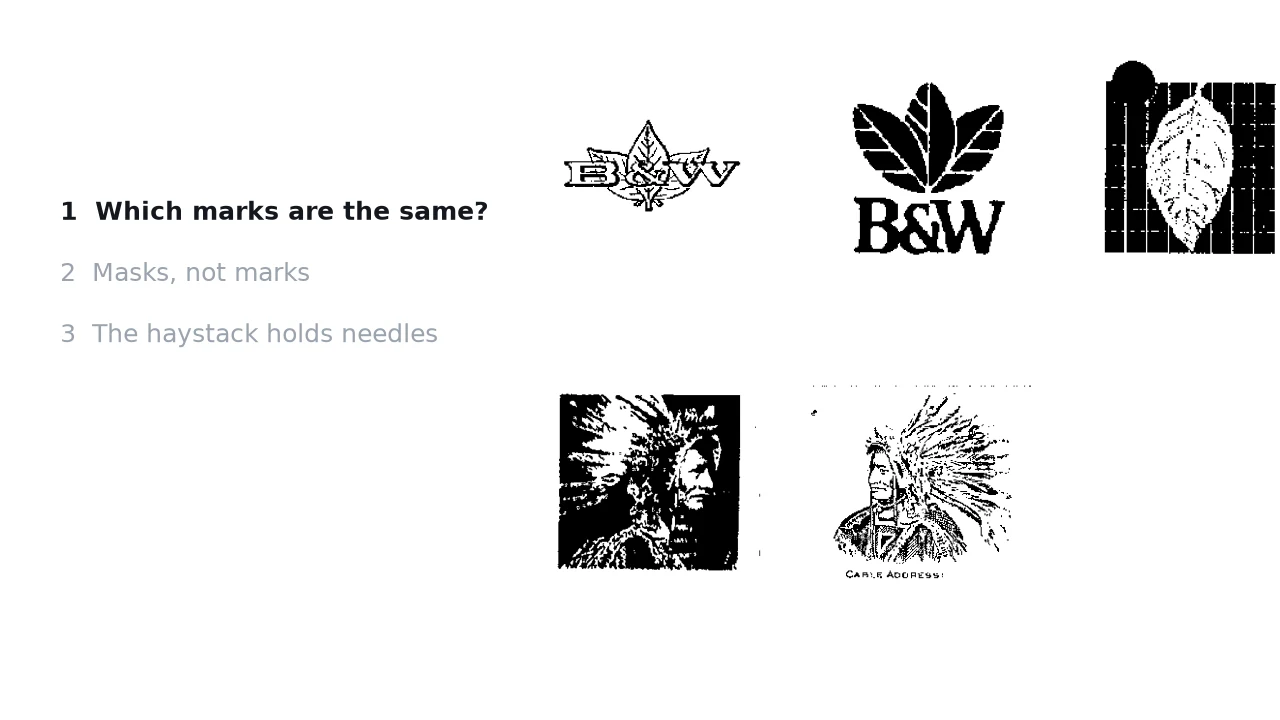
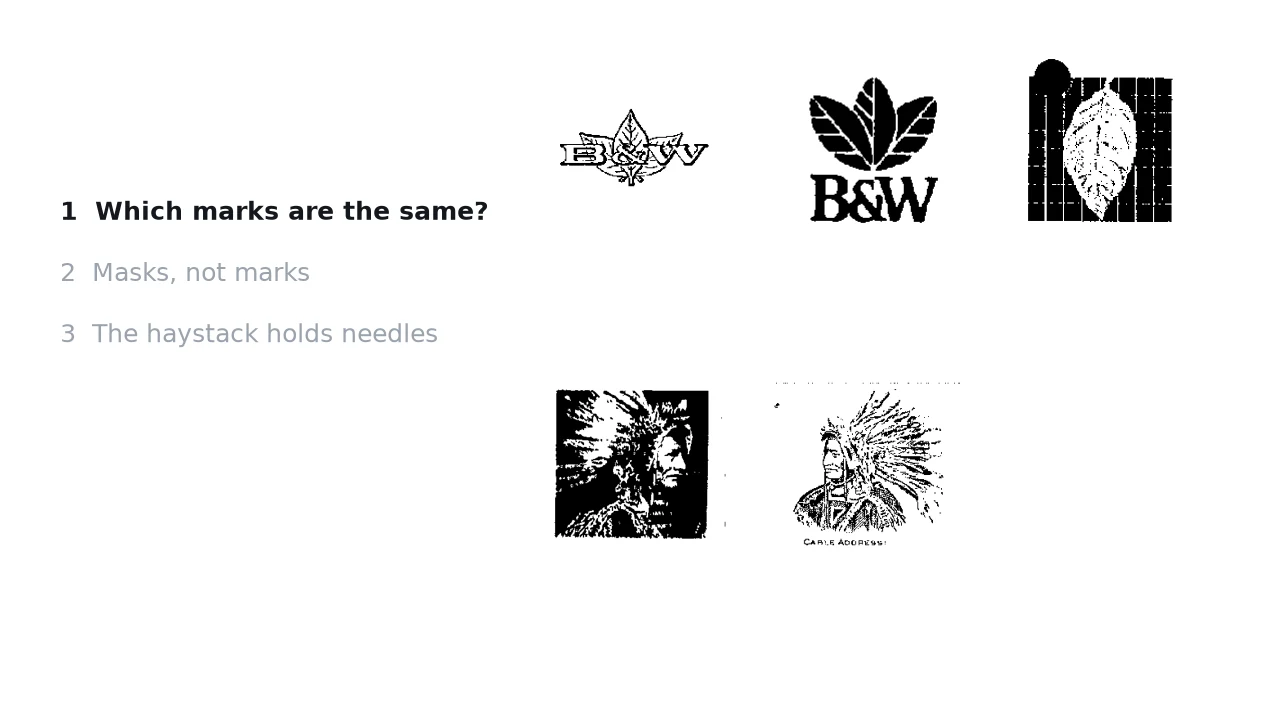
slides: one "Data, Set" card for every dataset, per #4172
Every dataset in the appendix now arrives on the same card: name, counts
and url on the left, real media on the right, and — where the dataset has
boxes — a zoom frame that lists categories beside one picture, the ones
present in blue and joined to their boxes, the absent ones in grey.

- Visual Genome is gone. Caltech-101 and COCO are one animated slide,
  "Data, Set": Caltech (capitalised plural captions, no caltech101_m
  stat), then COCO as a 3x2 grid, then COCO zoomed.
- The Venn quiets the "Easy" line once it is no longer drawn, and gains
  a frame h that goes back to A+ vs Ø over the full drawing, to flick
  against g.
- "Not Yet a Quarry": four real-COCO frames — a pickup that is a car and
  a pickup that is a truck (and two more merges), the cuts we want,
  the largest instance against the union of a street's cars, and a
  stalk of bananas under one "large" box.
- coco_quarry is a "Data, Set" card: six positives with their one region
  and cell, then the dog@medium frame zoomed. It replaces the build slide.
- The logo slide moves in front of DocMarks.
- DocMarks' four sources (SPODS, Tobacco800, StaVer, UCSF) get cards with
  real pages; "Not Yet a Benchmark" shows look-alike marks, a stamp mask
  in 27 pieces, and a Lorillard letterhead sitting unboxed in the
  haystack; DocMarks itself is a card showing six real roster marks and
  the Philip Morris crest zoomed. It replaces the build slide.
[…]

diff --git a/slides/figs/src/make-data-cards.py b/slides/figs/src/make-data-cards.py
@@ -745,7 +745,7 @@ def frame_docmarks_same() -> Any:
 
     fig = dc.blank()
     _problems_column(fig, 0, DOCMARKS_PROBLEMS)
-    height = 0.32
+    height = 0.27
     for row, ids in enumerate(LOOKALIKES):
         top = 0.93 - row * 0.44
         x = 0.42
@@ -754,6 +754,8 @@ def frame_docmarks_same() -> Any:
             width = height * dc.FIG_H / dc.FIG_W
             _picture(fig, [x, top - height, width, height], crop)
             x += width + 0.03
+        if x - 0.03 > 0.975:
+            raise SystemExit(f"look-alikes row {row}: runs to {x - 0.03:.3f}, off the slide")
     return fig
 
 
